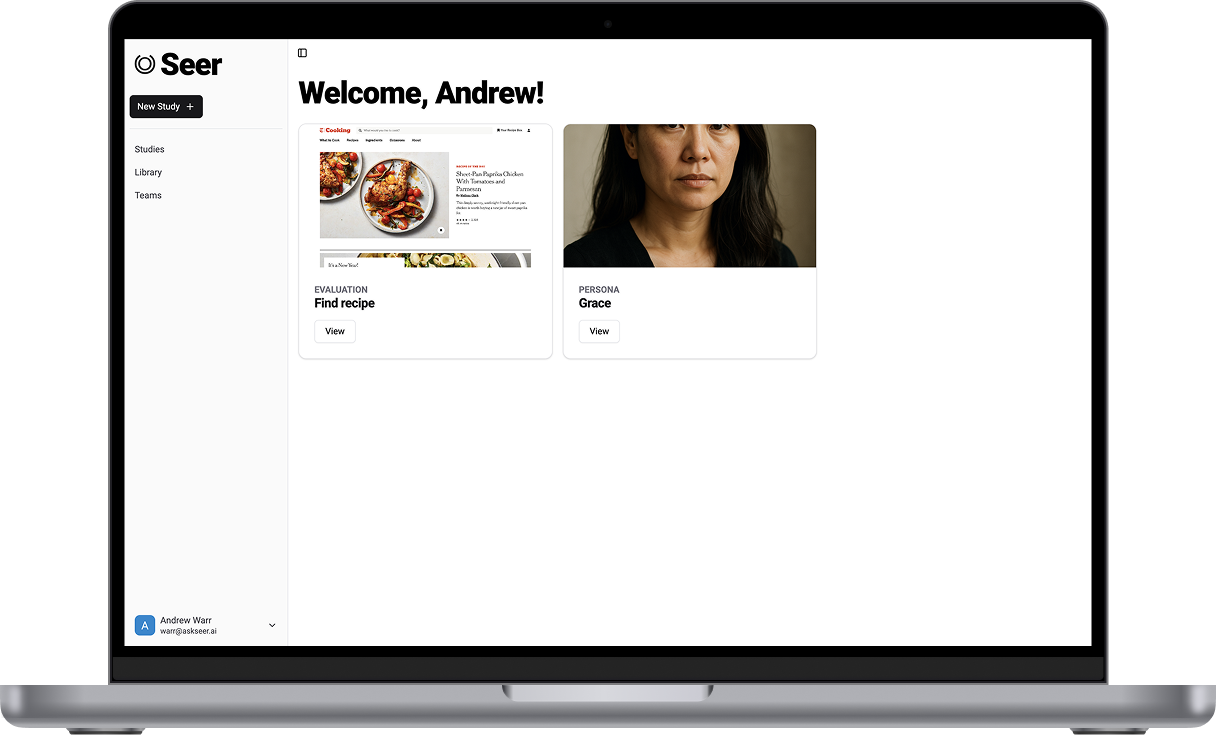
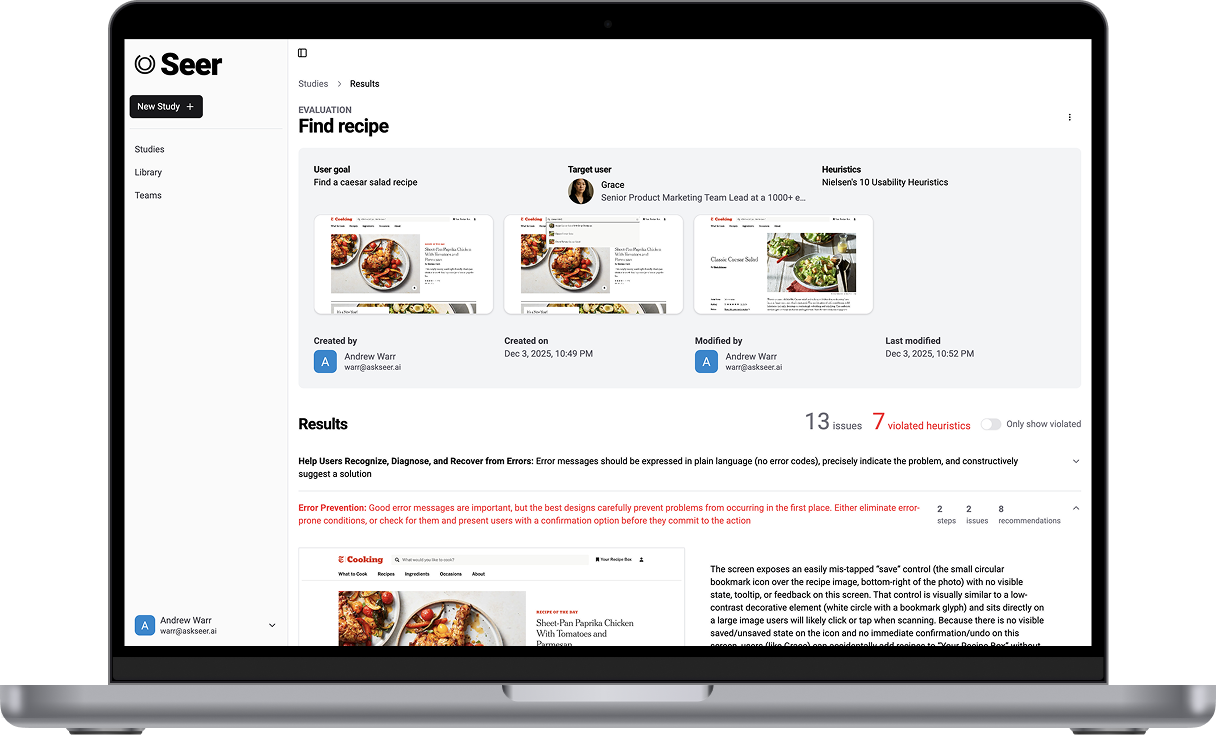
feat: Add hero image to homepage and update layout

diff --git a/apps/nextjs-app/app/(no-auth)/home/page.tsx b/apps/nextjs-app/app/(no-auth)/home/page.tsx
@@ -1,5 +1,6 @@
 // Next imports
 import Link from "next/link";
+import Image from "next/image";
 import { redirect } from "next/navigation";
 import { headers } from "next/headers";
 
@@ -37,7 +38,7 @@ export default async function HomePage() {
         <GlobalHeader activePage="home" theme="light" />
 
         {/* Hero Section */}
-        <div className="flex flex-1 flex-col items-center justify-center text-center">
+        <div className="mt-16 flex flex-1 flex-col items-center justify-center text-center md:mt-24 lg:mt-32">
           <h1 className="scroll-m-20 text-4xl font-extrabold tracking-tight md:text-5xl lg:text-6xl">
             Creating better experiences
           </h1>
@@ -51,6 +52,17 @@ export default async function HomePage() {
             <Button size="lg" variant="secondary" asChild>
               <Link href="/demo">Request a demo</Link>
             </Button>
+          </div>
+
+          {/* Hero Image */}
+          <div className="mt-16 w-full max-w-4xl">
+            <Image
+              src="/hero.png"
+              alt="Seer product screenshot"
+              width={1200}
+              height={800}
+              priority
+            />
           </div>
         </div>
       </div>
